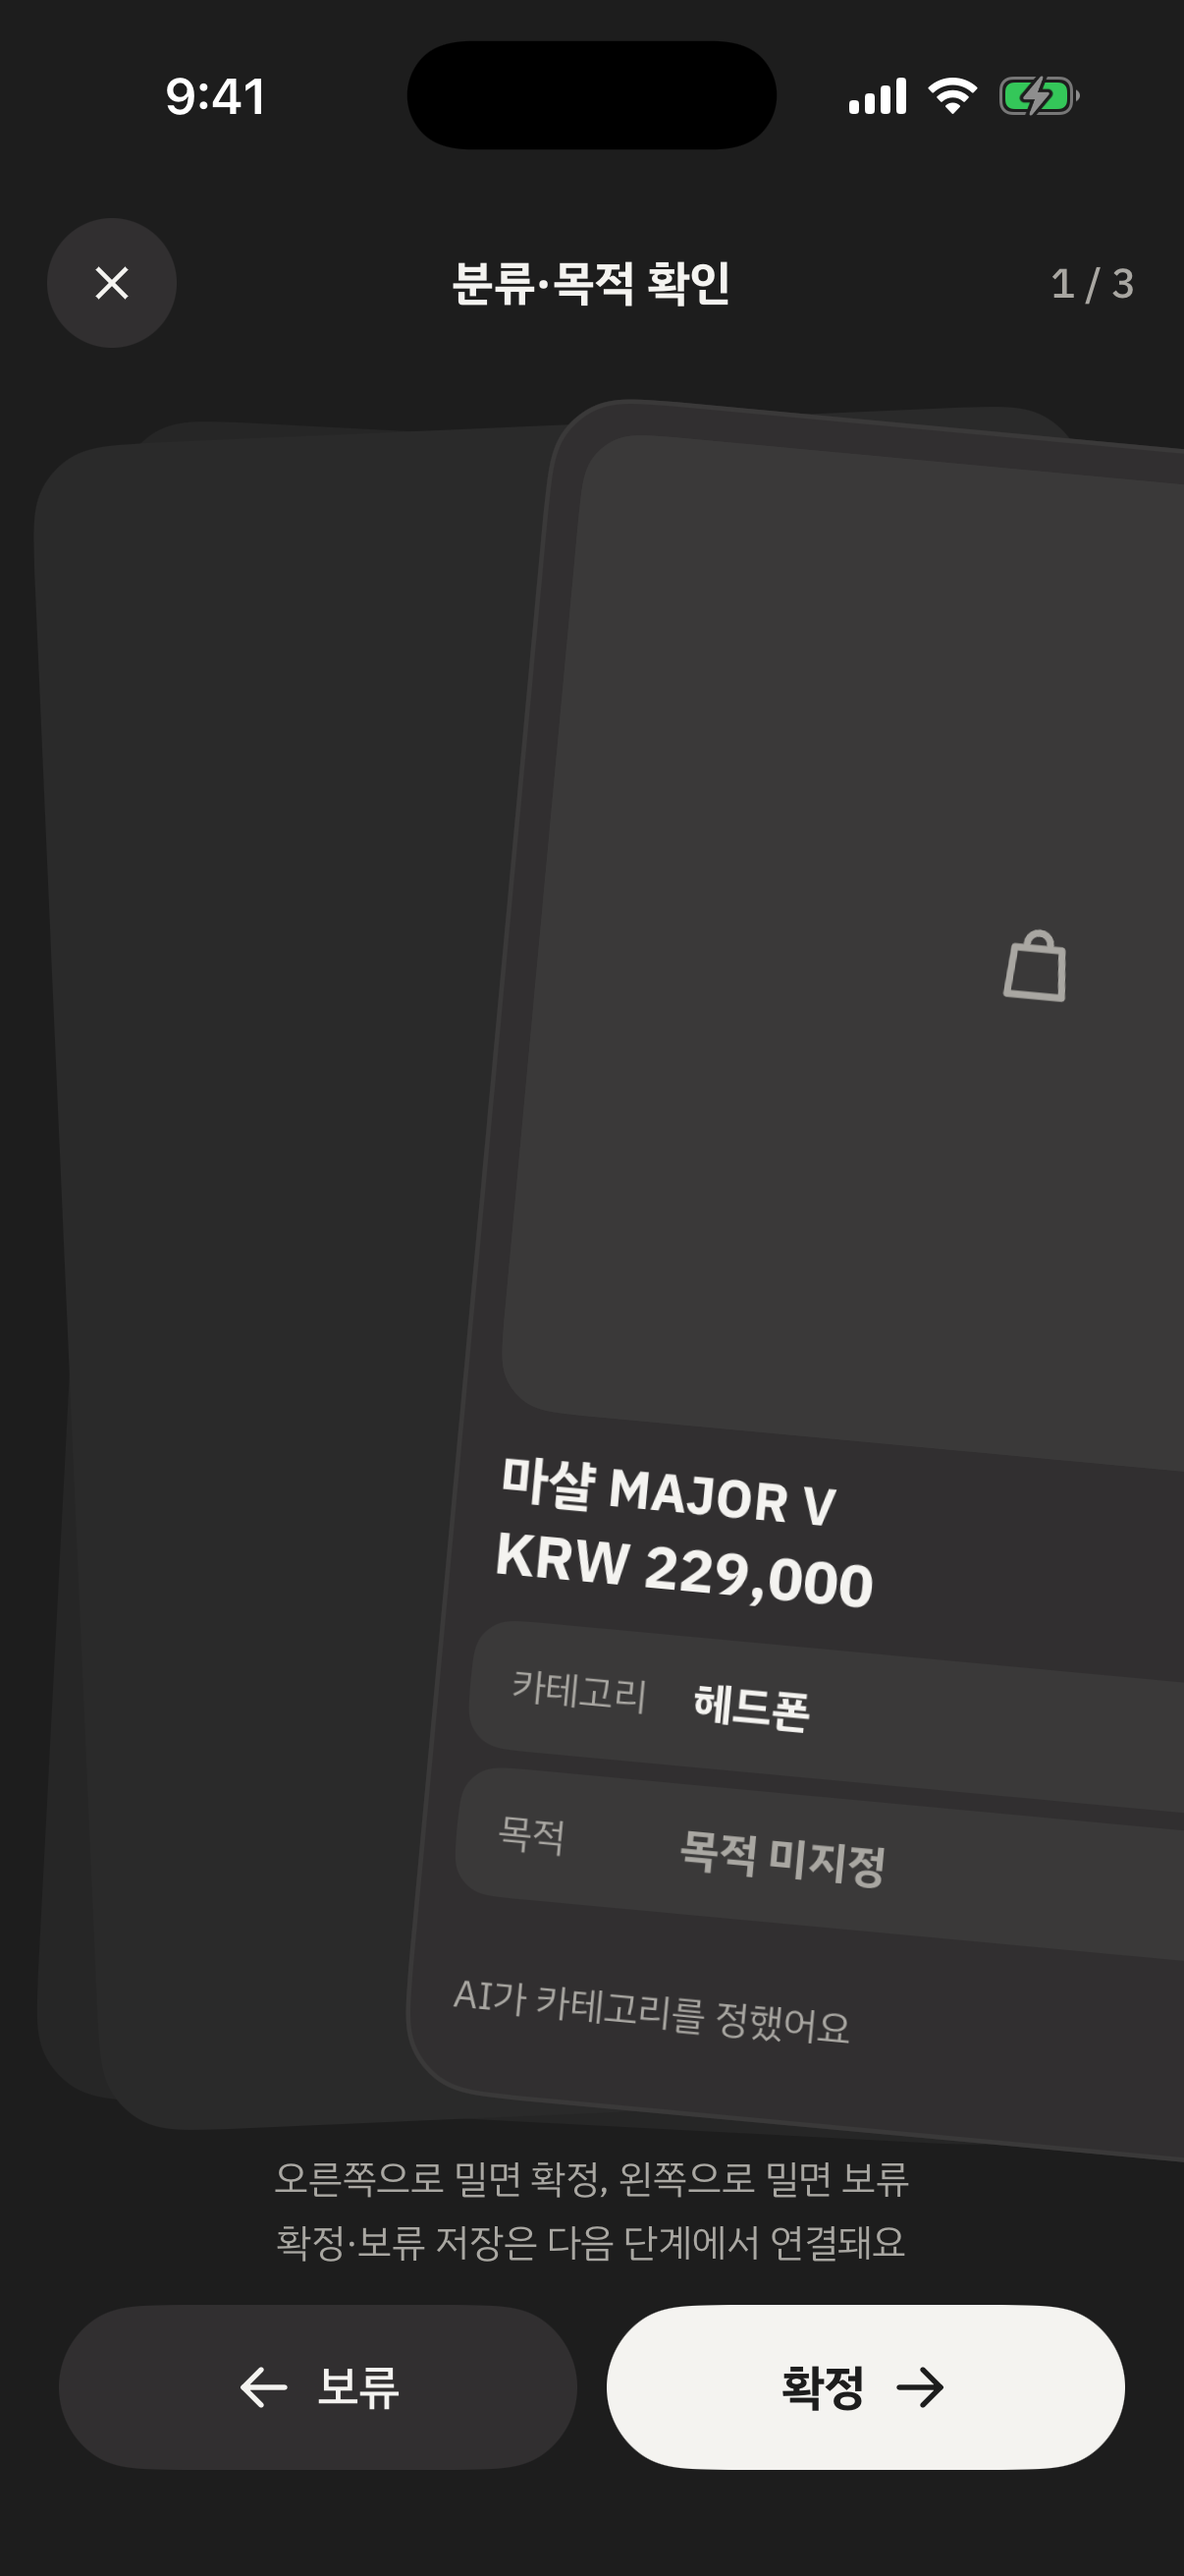
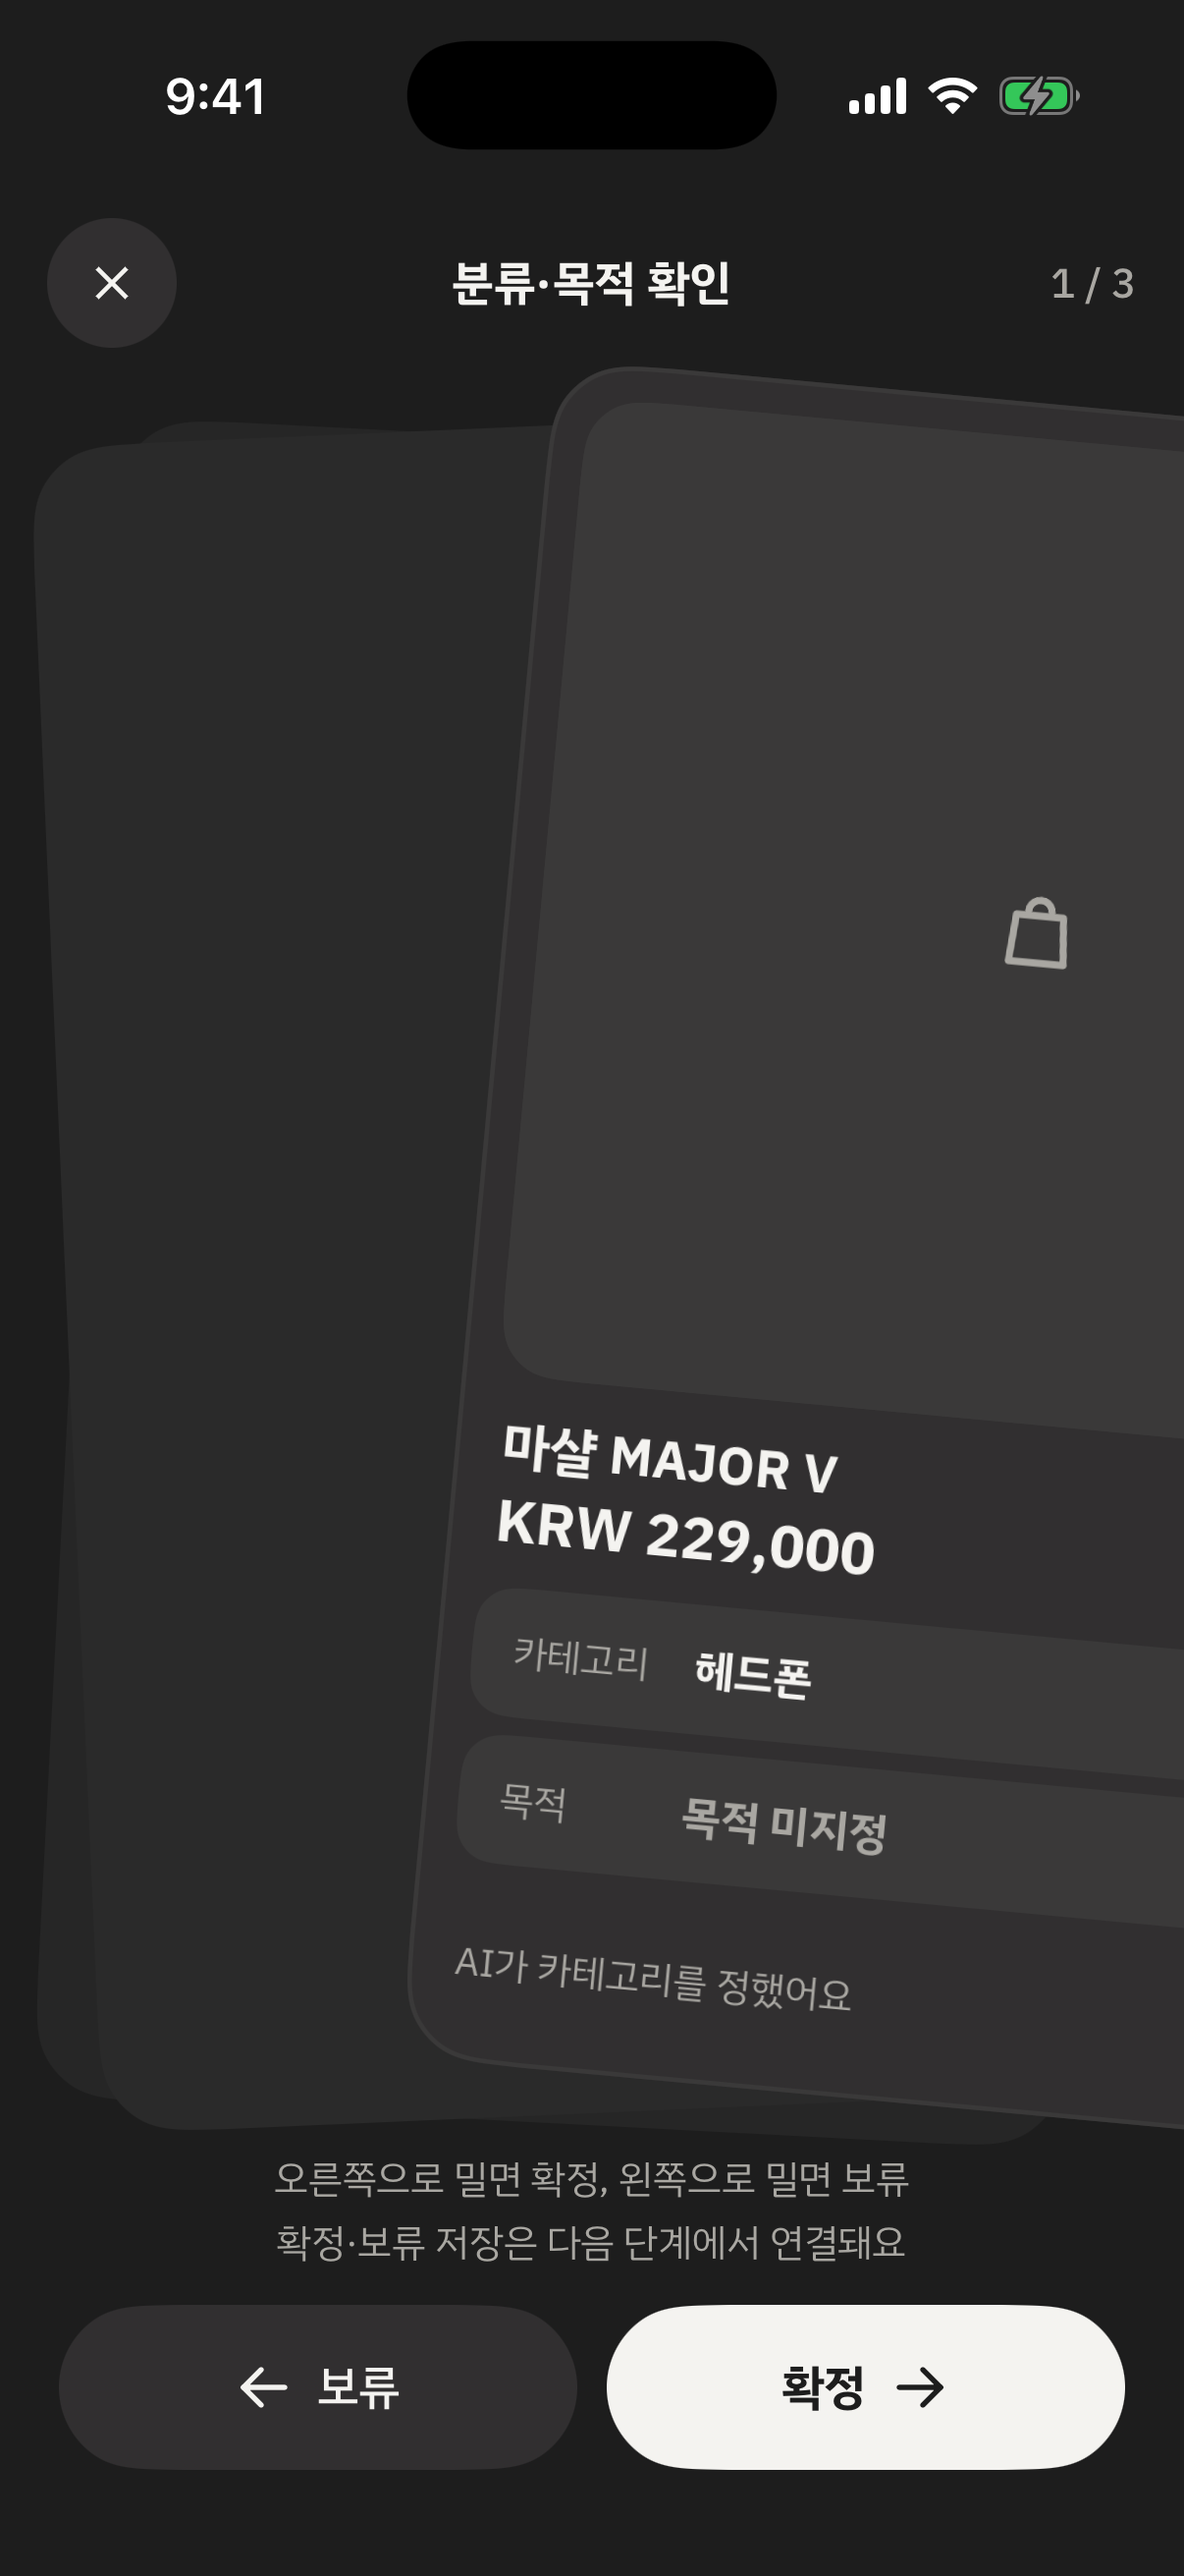
feature(ios): 카드 회전 기준·위쪽 이어 받기 보완
카드 회전을 이동 전에 적용해 보드처럼 카드 아래 90% 기준으로 돌게 하고, 던진 카드만 넘기도록 막았다.
loadNewer는 위쪽 끝 방문마다 한 번만 부르고, 이어 붙이기가 대기 중인 복원을 덮지 않게 했다.
새로고침 실패 안내를 할 일 섹션 밖으로 옮겼다.

Changed region(s): [[0.3988, 0.5561, 0.767, 0.7414], [0.3988, 0.7414, 0.7363, 0.8032], [0.8284, 0.3398, 0.9204, 0.4016]]

diff --git a/client/ios/Wishlist/Features/Flow/ReviewCardStack.swift b/client/ios/Wishlist/Features/Flow/ReviewCardStack.swift
@@ -24,6 +24,10 @@ struct ReviewCardStack: View {
     #endif
     @State private var leaving: Leaving?
     @State private var width: CGFloat = 0
+    /// The current card id read when a throw ends (the closure outlives the render that made it).
+    @State private var shown = ShownCard()
+
+    @MainActor final class ShownCard { var id: String? }
 
     struct Leaving: Equatable {
         let card: HomeFlowCard
@@ -43,7 +47,10 @@ struct ReviewCardStack: View {
                         .transition(.asymmetric(insertion: .modifier(active: NextStackEffect(rising: true), identity: NextStackEffect(rising: false)), removal: .identity))
                 }
                 if let leaving {
-                    LeavingCard(leaving: leaving, width: width, done: onPass)
+                    LeavingCard(leaving: leaving, width: width) {
+                        // A foreground rebuild may have replaced the card meanwhile: pass only the thrown one.
+                        if ReviewStackModel.shouldPass(currentID: shown.id, leavingID: leaving.id) { onPass() }
+                    }
                         .transition(.identity)
                         .zIndex(10)
                 }
@@ -55,7 +62,8 @@ struct ReviewCardStack: View {
             buttons
         }
         .padding(.init(top: WishlistTokens.Space.s12, leading: WishlistTokens.Space.s20, bottom: 36, trailing: WishlistTokens.Space.s20))
-        .onChange(of: state.current?.item.id) { _, id in
+        .onChange(of: state.current?.item.id, initial: true) { _, id in
+            shown.id = id
             if let leaving, id != leaving.id { self.leaving = nil }
         }
     }
@@ -76,8 +84,9 @@ struct ReviewCardStack: View {
                     .rotationEffect(.degrees(-2.5))
             }
             ReviewCard(item: front.item)
-                .offset(x: dragX)
+                // Board `translateX(dx) rotate(θ)` with origin 50% 90%: rotate about the card, then move it.
                 .rotationEffect(.degrees(CardThrowMath.rotation(dx: dragX, width: width)), anchor: ReviewStackModel.pivot)
+                .offset(x: dragX)
                 .gesture(drag)
         }
         .accessibilityElement(children: .contain)
@@ -147,6 +156,9 @@ enum ReviewStackModel {
         return current.item.id == leavingID ? upcoming.first : current
     }
 
+    /// The throw ended: pass only if the card shown is still the one thrown.
+    static func shouldPass(currentID: String?, leavingID: String) -> Bool { currentID == leavingID }
+
     /// Back cards behind the front: the cards left after it, at most 2.
     static func backs(position: Int, total: Int, frontIsNext: Bool) -> Int {
         let after = total - position - (frontIsNext ? 1 : 0)
@@ -177,8 +189,8 @@ private struct LeavingCard: View {
     var body: some View {
         let startRotation = CardThrowMath.rotation(dx: leaving.startDx, width: width)
         ReviewCard(item: leaving.card.item)
-            .offset(x: x ?? leaving.startDx)
             .rotationEffect(.degrees(rotation ?? startRotation), anchor: ReviewStackModel.pivot)
+            .offset(x: x ?? leaving.startDx)
             .allowsHitTesting(false)
             .accessibilityHidden(true)
             .onAppear {

diff --git a/client/ios/WishlistTests/ListAnchorTests.swift b/client/ios/WishlistTests/ListAnchorTests.swift
@@ -44,6 +44,29 @@ final class ListAnchorTests: XCTestCase {
         XCTAssertNil(tracker.take(laidIds: ["c"]))
     }
 
+    /// Ruling 9: one `loadNewer` per visit to the top edge; a failed prepend (hasNewer stays) waits until the
+    /// list has left the top and come back, and nothing fires while a read is in flight.
+    func testLoadNewerFiresOncePerVisitToTheTop() {
+        var tracker = ListAnchorTracker()
+        XCTAssertFalse(tracker.shouldLoadNewer(atTop: true, hasNewer: false, busy: false))
+        XCTAssertTrue(tracker.shouldLoadNewer(atTop: true, hasNewer: true, busy: false))
+        XCTAssertFalse(tracker.shouldLoadNewer(atTop: true, hasNewer: true, busy: true)) // in flight
+        XCTAssertFalse(tracker.shouldLoadNewer(atTop: true, hasNewer: true, busy: false)) // failed: no loop
+        XCTAssertFalse(tracker.shouldLoadNewer(atTop: false, hasNewer: true, busy: false)) // left the top: re-armed
+        XCTAssertTrue(tracker.shouldLoadNewer(atTop: true, hasNewer: true, busy: false))
+    }
+
+    /// A Presenter restore waiting for its card wins over a prepend that lands meanwhile.
+    func testAPrependDoesNotOverrideAPendingRestore() {
+        var tracker = ListAnchorTracker()
+        tracker.report("c", CGRect(x: 16, y: 120, width: 170, height: 200))
+        tracker.beginPrepend(top: 100)
+        XCTAssertTrue(tracker.accept(token: 7, resolvedItemId: "r"))
+        tracker.prependLanded()
+        XCTAssertNil(tracker.take(laidIds: ["c"]))
+        XCTAssertEqual(tracker.take(laidIds: ["c", "r"]), .item("r"))
+    }
+
     func testScrollAnchorPutsTheCardTopUnderTheCoveredTop() {
         let anchor = ListAnchorMath.anchor(topInset: 100, viewportHeight: 700, itemHeight: 200)
         // scrollTo aligns the item's point at y-fraction f with the viewport's: item top = f × (700 − 200).

diff --git a/client/ios/Wishlist/Features/Category/ListAnchor.swift b/client/ios/Wishlist/Features/Category/ListAnchor.swift
@@ -18,6 +18,7 @@ struct ListAnchorTracker {
     private var pending: Target?
     private var prependAnchor: String?
     private var prepending = false
+    private var newerArmed = true
 
     mutating func report(_ id: String, _ frame: CGRect) { frames[id] = frame }
     mutating func remove(_ id: String) { frames.removeValue(forKey: id) }
@@ -45,10 +46,19 @@ struct ListAnchorTracker {
         prepending = prependAnchor != nil
     }
 
-    /// The newer cards landed in front.
+    /// Whether to call `loadNewer` now: at the top edge with newer cards and nothing in flight, once per
+    /// visit to the top (a failed prepend waits until the list has left the top and come back, Ruling 9).
+    mutating func shouldLoadNewer(atTop: Bool, hasNewer: Bool, busy: Bool) -> Bool {
+        guard atTop else { newerArmed = true; return false }
+        guard newerArmed, hasNewer, !busy else { return false }
+        newerArmed = false
+        return true
+    }
+
+    /// The newer cards landed in front (a Presenter restore still waiting wins over it).
     mutating func prependLanded() {
         guard prepending, let anchor = prependAnchor else { return }
-        pending = .item(anchor)
+        if pending == nil { pending = .item(anchor) }
         prepending = false
         prependAnchor = nil
     }
@@ -105,6 +115,10 @@ final class ListAnchorBox {
     var viewportHeight: CGFloat = 0
 
     func firstVisible(top: CGFloat) -> String? { tracker.firstVisible(top: top) }
+
+    func shouldLoadNewer(atTop: Bool, hasNewer: Bool, busy: Bool) -> Bool {
+        tracker.shouldLoadNewer(atTop: atTop, hasNewer: hasNewer, busy: busy)
+    }
 
     func beginPrepend(top: CGFloat, firstItemId: String?) {
         prependFirst = firstItemId

diff --git a/client/ios/Wishlist/Features/Home/HomeTodoText.swift b/client/ios/Wishlist/Features/Home/HomeTodoText.swift
@@ -17,7 +17,8 @@ enum HomeTodoText {
         HomeText("flow.summary.skipped", Int32(clamping: count)).resolve(bundle)
     }
 
-    /// The review card's bottom line: what AI set (category / purpose source). Nil: no AI line.
+    /// The review card's bottom line from the category / purpose sources (Ruling 7, same on Android): both
+    /// AI → 카테고리와 목적을 연결, category only → 카테고리를 정함, purpose only → 목적을 연결, else nil (no line).
     static func aiLineKey(category: ValueSource?, purpose: ValueSource) -> String? {
         switch (category == .ai, purpose == .ai) {
         case (true, true): "flow.review.ai.both"
@@ -59,6 +60,7 @@ enum HomeTodoText {
     /// A link's site for display (the shared rule: host without `www.`, else the text's start).
     static func host(_ url: String) -> String { DisplayFormat.shared.host(url: url) }
 
+    /// A HOME-01 group card's title (분류 중 reuses the C3 card's keys).
     static func groupTitleKey(_ group: HomeActionGroup) -> String {
         switch group {
         case .classificationReview: "home.group.review.title"
@@ -67,6 +69,7 @@ enum HomeTodoText {
         }
     }
 
+    /// A HOME-01 group card's one-line subtitle.
     static func groupSubtitleKey(_ group: HomeActionGroup) -> String {
         switch group {
         case .classificationReview: "home.group.review.subtitle"

diff --git a/client/ios/WishlistTests/CardThrowMathTests.swift b/client/ios/WishlistTests/CardThrowMathTests.swift
@@ -31,6 +31,21 @@ final class CardThrowMathTests: XCTestCase {
         XCTAssertEqual(CardThrowMath.rotation(dx: 10, width: 0), 0)
     }
 
+    /// A throw ends with a pass only for the card that was thrown: a foreground rebuild that replaced the
+    /// current card meanwhile (or emptied it) does not pass the new one.
+    func testOnlyTheThrownCardIsPassed() {
+        XCTAssertTrue(ReviewStackModel.shouldPass(currentID: "a", leavingID: "a"))
+        XCTAssertFalse(ReviewStackModel.shouldPass(currentID: "b", leavingID: "a"))
+        XCTAssertFalse(ReviewStackModel.shouldPass(currentID: nil, leavingID: "a"))
+    }
+
+    /// While a card leaves, the next one is already in front with one back card fewer.
+    func testStackFrontAndBacksDuringAThrow() {
+        XCTAssertEqual(ReviewStackModel.backs(position: 1, total: 5, frontIsNext: false), 2)
+        XCTAssertEqual(ReviewStackModel.backs(position: 1, total: 3, frontIsNext: true), 1)
+        XCTAssertEqual(ReviewStackModel.backs(position: 3, total: 3, frontIsNext: false), 0)
+    }
+
     /// A released drag continues the 340 throw for the distance left to ±480.
     func testExitTimeIsTheRemainingPartOfTheThrow() {
         XCTAssertEqual(CardThrowMath.exitMillis(fromDx: 0), 340)

diff --git a/client/ios/WishlistTests/HomeTodoTextTests.swift b/client/ios/WishlistTests/HomeTodoTextTests.swift
@@ -33,6 +33,18 @@ final class HomeTodoTextTests: XCTestCase {
         XCTAssertNil(HomeTodoText.aiLineKey(category: nil, purpose: .unassigned))
     }
 
+    /// Ruling 7 wording, the same on Android.
+    func testAILineWording() throws {
+        let bundle = try ko()
+        func line(_ c: ValueSource?, _ p: ValueSource) -> String? {
+            HomeTodoText.aiLineKey(category: c, purpose: p).map { bundle.localizedString(forKey: $0, value: nil, table: nil) }
+        }
+        XCTAssertEqual(line(.ai, .ai), "AI가 카테고리와 목적을 연결했어요")
+        XCTAssertEqual(line(.ai, .unassigned), "AI가 카테고리를 정했어요")
+        XCTAssertEqual(line(.user, .ai), "AI가 목적을 연결했어요")
+        XCTAssertNil(line(.unknown, .unknown))
+    }
+
     func testFillReasonFollowsTheRequiredAction() throws {
         let bundle = try ko()
         func reason(_ action: RequiredAction) -> String {

diff --git a/client/ios/Wishlist/Features/Home/HomeLoggedInView.swift b/client/ios/Wishlist/Features/Home/HomeLoggedInView.swift
@@ -19,11 +19,13 @@ struct HomeLoggedInView: View {
 
     var body: some View {
         let showsTodo = !state.pending.isEmpty || !state.groups.isEmpty || !state.summaryLoaded
+        // Above every section: a failed refresh is reported even when no to-do card is left.
+        if state.refreshFailed {
+            WLText(String(localized: "home.refresh.failed"), WLTextStyle.label.resized(13), color: c.textSecondary)
+                .padding(.top, WishlistTokens.Space.s12)
+        }
         if showsTodo {
             HomeSection(label: String(localized: "home.todo")) {
-                if state.refreshFailed {
-                    WLText(String(localized: "home.refresh.failed"), WLTextStyle.label.resized(13), color: c.textSecondary)
-                }
                 if !state.pending.isEmpty {
                     HomeTodoCard(
                         icon: .clock,

diff --git a/client/ios/Wishlist/Features/Purpose/PurposeDetailScreen.swift b/client/ios/Wishlist/Features/Purpose/PurposeDetailScreen.swift
@@ -247,8 +247,8 @@ struct PurposeDetailScreen: View {
                 guard case .item(let id) = target, id != owner.state.items.first?.id else { return }
                 ListAnchorMath.scroll(proxy, to: id, box: anchors)
             })
-            .onChange(of: atTop && state.hasNewer && !state.prepending && !state.itemsLoading) { _, wants in
-                guard wants else { return }
+            .onChange(of: [atTop, state.hasNewer, state.prepending || state.itemsLoading], initial: true) { _, key in
+                guard anchors.shouldLoadNewer(atTop: key[0], hasNewer: key[1], busy: key[2]) else { return }
                 anchors.beginPrepend(top: sheet.sheetTop + 28, firstItemId: owner.state.items.first?.id)
                 owner.loadNewer()
             }

diff --git a/client/ios/Wishlist/Features/Category/CategoryListScreen.swift b/client/ios/Wishlist/Features/Category/CategoryListScreen.swift
@@ -78,8 +78,8 @@ struct CategoryListScreen: View {
             DetailNoticeLine(notice: owner.partialNotice).padding(.top, WLTopBarMetrics.height + WishlistTokens.Space.s32)
         }
         .onAppear { owner.loadOnce(target) }
-        .onChange(of: atTop && state.hasNewer && !state.prepending && !state.loading) { _, wants in
-            guard wants else { return }
+        .onChange(of: [atTop, state.hasNewer, state.prepending || state.loading], initial: true) { _, key in
+            guard anchors.shouldLoadNewer(atTop: key[0], hasNewer: key[1], busy: key[2]) else { return }
             anchors.beginPrepend(top: anchors.coveredTop, firstItemId: state.items.first?.id)
             owner.loadNewer()
         }

diff --git a/client/ios/Wishlist/Features/Session/HomePresenterOwner.swift b/client/ios/Wishlist/Features/Session/HomePresenterOwner.swift
@@ -44,7 +44,6 @@ final class HomePresenterOwner {
 
     /// Pull to refresh (`.refreshable`): returns once the Presenter's refresh finished (at once while
     /// another one runs or after close). Cancelling the pull ends only the wait (CancellationError).
-
     func refresh() async {
         try? await presenter.refreshNow()
     }
